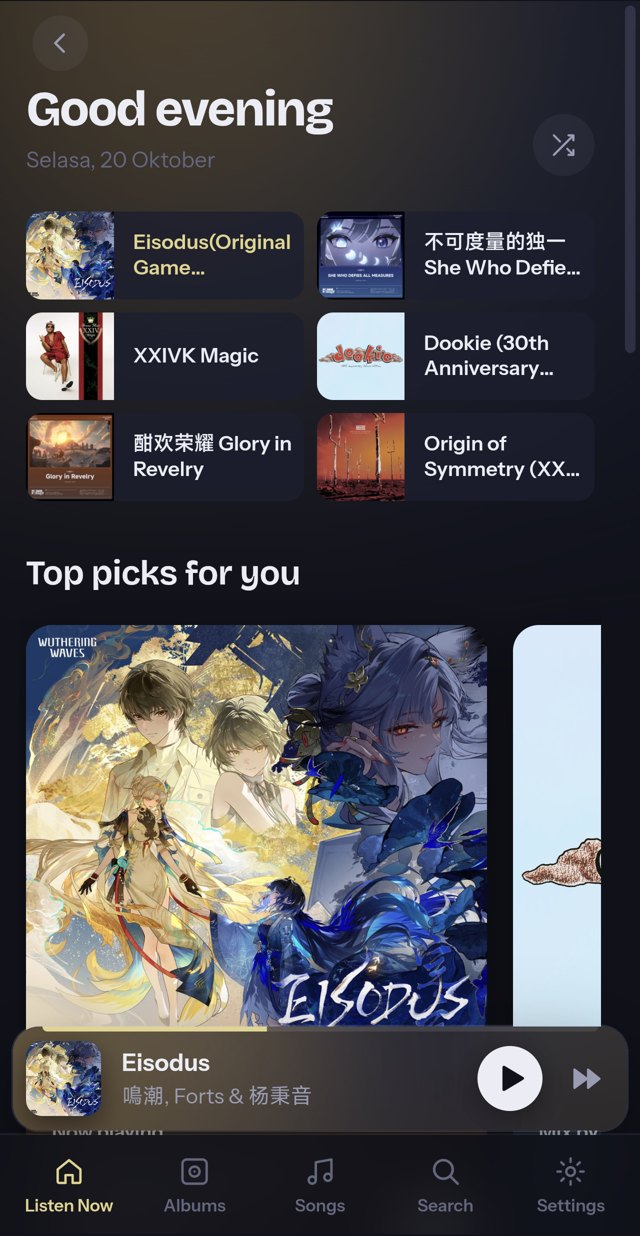
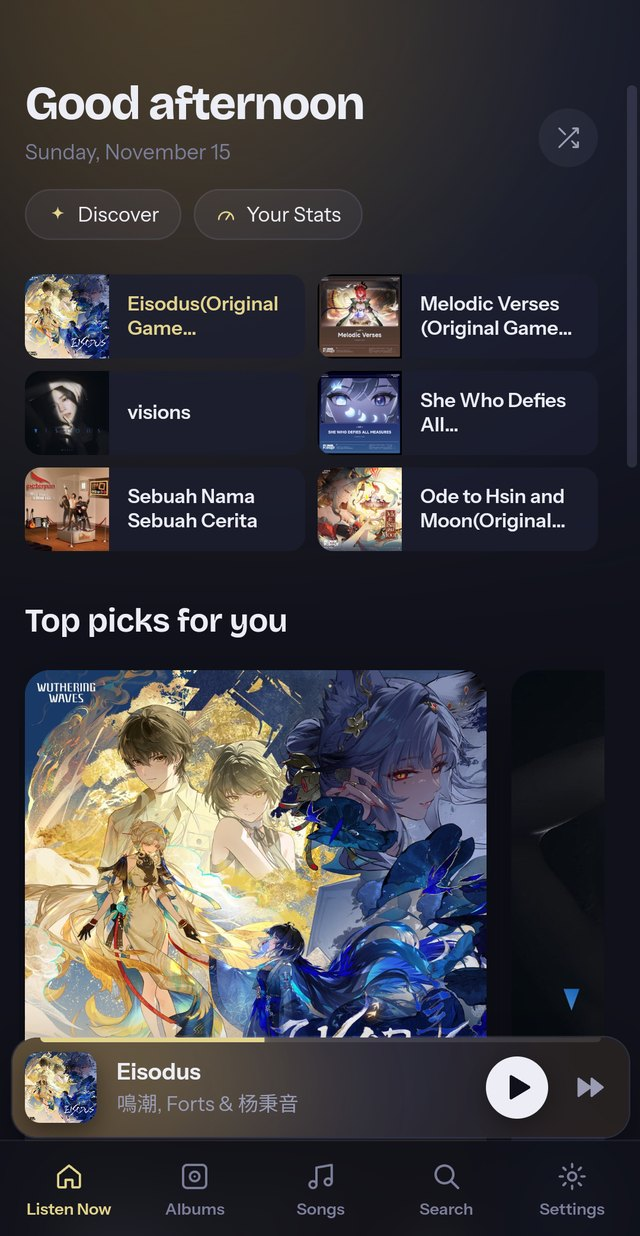
Website: screenshots of 0.2.40

diff --git a/site/index.html b/site/index.html
@@ -71,7 +71,7 @@
           <p class="fine" id="download-note">Free and open source. Windows, macOS, Linux and Android.</p>
         </div>
         <figure class="shot hero-shot">
-          <img src="assets/home.jpg?v=a5bd03ea" width="1650" height="1075" alt="Cadence's Listen Now page: recent albums, top picks and the player" />
+          <img src="assets/home.jpg?v=c0157bdc" width="1650" height="1075" alt="Cadence's Listen Now page: recent albums, top picks and the player" />
         </figure>
       </section>
 
@@ -101,7 +101,7 @@
             <li>Crossfeed for headphones, high-quality resampling when it's needed</li>
           </ul>
         </div>
-        <figure class="shot"><img src="assets/sound.jpg?v=3a29582d" width="1270" height="627" loading="lazy" alt="The signal path: every step from the file to the speakers, and the Direct output switch" /></figure>
+        <figure class="shot"><img src="assets/sound.jpg?v=439730fd" width="1270" height="627" loading="lazy" alt="The signal path: every step from the file to the speakers, and the Direct output switch" /></figure>
       </section>
 
       <section class="feature flip" id="lyrics">
@@ -124,7 +124,7 @@
             <li>Lyrics that run early or late? Follow singer sets them right, or nudge the timing yourself</li>
           </ul>
         </div>
-        <figure class="shot"><img src="assets/lyrics.jpg?v=b87d46fa" width="1510" height="950" loading="lazy" alt="Now Playing with lyrics filling in word by word" /></figure>
+        <figure class="shot"><img src="assets/lyrics.jpg?v=fc9e44cf" width="1510" height="950" loading="lazy" alt="Now Playing with lyrics filling in word by word" /></figure>
       </section>
 
       <section class="feature" id="mixes">
@@ -146,7 +146,7 @@
             last week, month, year or all time.
           </p>
         </div>
-        <figure class="shot"><img src="assets/mixes.jpg?v=9a7892d8" width="1250" height="419" loading="lazy" alt="Mixes by sound: Warm and quiet, Bright and full, Warm and slow, Warm and upbeat" /></figure>
+        <figure class="shot"><img src="assets/mixes.jpg?v=317a3c3d" width="1250" height="419" loading="lazy" alt="Made for you today: four daily mixes, each from a different part of the library: On repeat, Deep cuts, Somewhere new and Right now" /></figure>
       </section>
 
       <section class="feature" id="library">
@@ -187,8 +187,8 @@
           </ul>
         </div>
         <div class="phones">
-          <figure class="phone"><img src="assets/phone-home.jpg?v=29358838" width="640" height="1236" loading="lazy" alt="Listen Now on an Android phone" /></figure>
-          <figure class="phone raised"><img src="assets/phone-now.jpg?v=c7293cfc" width="640" height="1236" loading="lazy" alt="Now Playing on an Android phone, showing Lossless 24-bit/48 kHz" /></figure>
+          <figure class="phone"><img src="assets/phone-home.jpg?v=d320fb54" width="640" height="1236" loading="lazy" alt="Listen Now on an Android phone" /></figure>
+          <figure class="phone raised"><img src="assets/phone-now.jpg?v=59d9977b" width="640" height="1236" loading="lazy" alt="Now Playing on an Android phone, showing Lossless 24-bit/48 kHz" /></figure>
           <figure class="widget"><img src="assets/widget.jpg?v=72383906" width="900" height="240" loading="lazy" alt="The Cadence widget on an Android home screen" /></figure>
         </div>
       </section>
